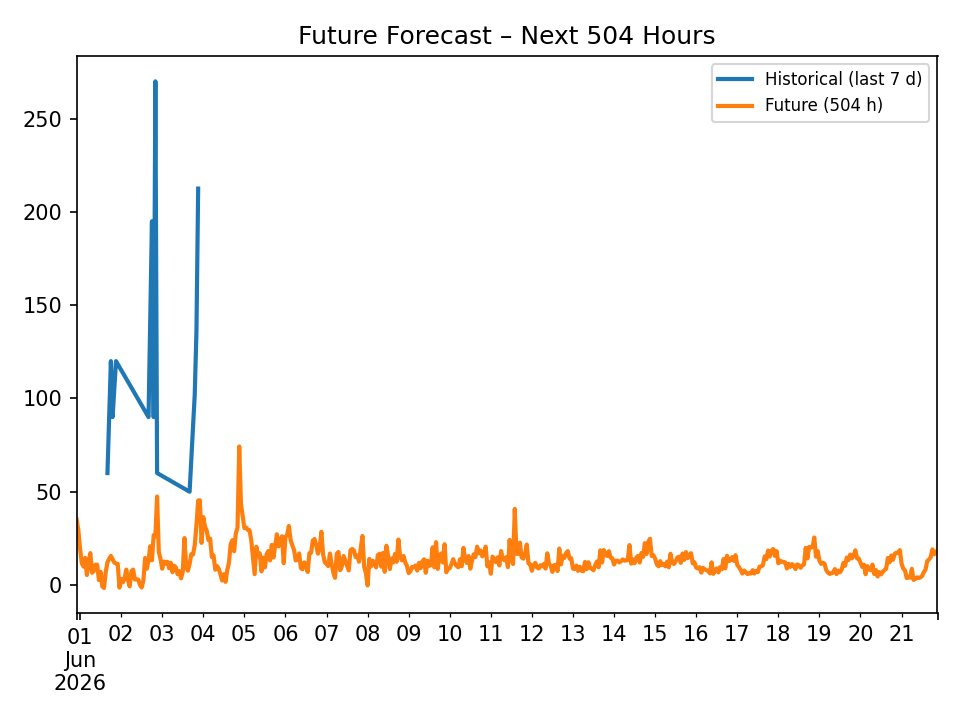
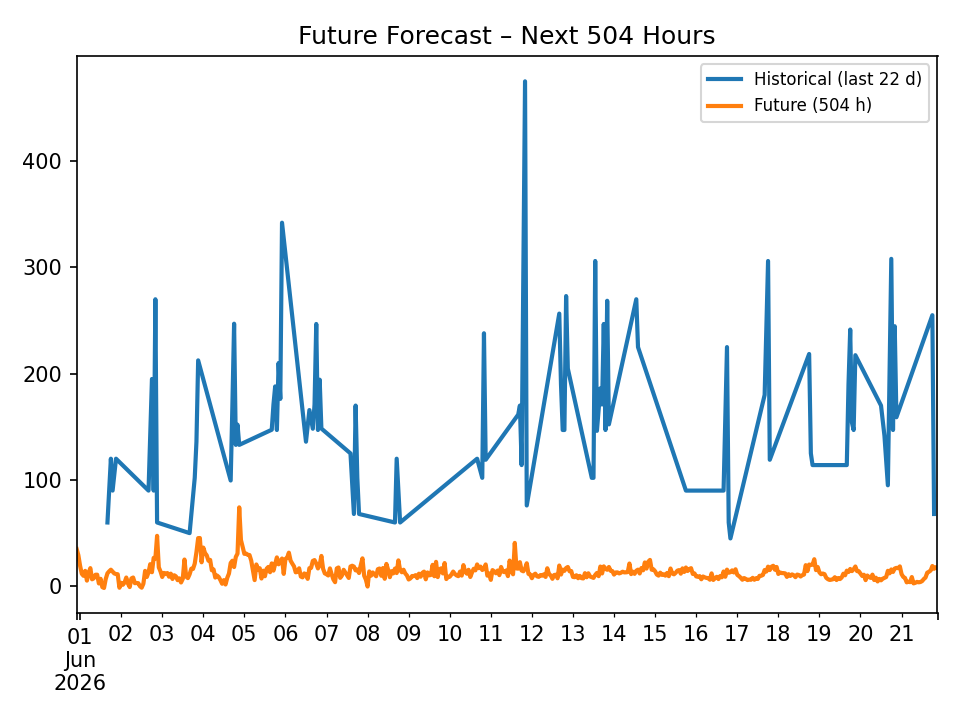
first version

diff --git a/data-functions/split_past_future.py b/data-functions/split_past_future.py
@@ -21,15 +21,15 @@ if __name__ == "__main__":
     full_df = pd.read_csv(file)
 
     # make location specific, location: (Amsterdam - 'AM', Utrecht - 'UT', Rotterdam - 'RO', Groningen - 'GR')
-    full_df = get_location_split(full_df, 'UT')
+    full_df = get_location_split(full_df, 'AM')
 
     full_df_future = get_future(full_df, datetime(2026,5,31))
     full_df_past = get_past(full_df, datetime(2026,5,31))
-    full_df_future_3_days = get_between_dates(full_df, datetime(2026,5,31), datetime(2026,6,3))
+    full_df_future_days = get_between_dates(full_df, datetime(2026,5,31), datetime(2026,6,21))
     
     # write to csvs (location specific)
-    full_df_future.to_csv(f'{save_folder}/future_data_UT.csv', index=False)
-    full_df_past.to_csv(f'{save_folder}/past_data_UT.csv', index=False)
-    full_df_future_3_days.to_csv(f'{save_folder}/future3days_data_UT.csv', index=False)
+    full_df_future.to_csv(f'{save_folder}/future_data_AM.csv', index=False)
+    full_df_past.to_csv(f'{save_folder}/past_data_AM.csv', index=False)
+    full_df_future_days.to_csv(f'{save_folder}/future_days_data_AM.csv', index=False)
 
     print("DONE!")

diff --git a/src/darts_prophet/single_model_test.py b/src/darts_prophet/single_model_test.py
@@ -474,8 +474,8 @@ def run_forecast(
     # ── Plots ─────────────────────────────────────────────────────────────────
     if ckpt_backtest == "":
     # ── Panel 3: Future forecast ─────────────────────────────────────────────
-        show_n_future = min(7 * 24, len(series))
-        series[-show_n_future:].plot(label="Historical (last 7 d)")
+        show_n_future = min(22 * 24, len(series))
+        series[-show_n_future:].plot(label="Historical (last 22 d)")
         try:
             future_pred.plot(
                 label=f"Future ({forecast_horizon} h)",

diff --git a/src/darts_prophet/inference.py b/src/darts_prophet/inference.py
@@ -10,8 +10,6 @@ from data_processing import load_timeseries
 CONFIG_PATH      = "configs/no_past_config.yaml"
 RESULT_PATH      = "experiments/"
 TARGET_COL       = "price"
-FORECAST_HORIZON = 96   # hours ahead for the future forecast
-TEST_SIZE        = 96   # last N hours held out for evaluation
 
 with open(CONFIG_PATH) as f:
     cfg = yaml.load(f, Loader=yaml.FullLoader)
@@ -45,7 +43,6 @@ if __name__ == "__main__":
         "daily_seasonality":  True,
         # LightGBM / regression models
         "lags":                24,
-        "output_chunk_length": FORECAST_HORIZON,
         # NBEATS / deep learning
         "input_chunk_length":  48,
         # TFT
